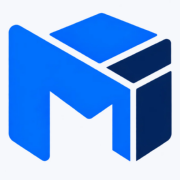
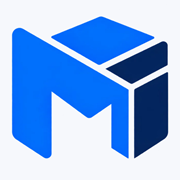
Record deployed working-tree state before redesign
Captures the uncommitted changes that were live in production deployment
7872373c (favicon v6 crop, blue wordmark accent, custom pointer) so the
redesign branch starts from exactly what visitors see today.

Generated with [Devin](https://devin.ai)

Changed region(s): [[0.1944, 0.0556, 0.9722, 0.9167], [0.0278, 0.1111, 0.3889, 0.9167], [0.3889, 0.5833, 0.5278, 0.6667]]

diff --git a/website-static/site.js b/website-static/site.js
@@ -1,5 +1,81 @@
 document.documentElement.classList.add("has-js");
 
+const customCursorQuery = window.matchMedia(
+  "(hover: hover) and (pointer: fine)",
+);
+const customCursor = document.createElement("div");
+customCursor.className = "custom-cursor";
+customCursor.setAttribute("aria-hidden", "true");
+customCursor.innerHTML = `
+  <svg viewBox="0 0 28 32" aria-hidden="true" focusable="false">
+    <path
+      d="M2.5 2.5 24.2 14.8l-8.3 2.1 5 8.8-4.5 2.5-4.9-8.9-6.1 6.3Z"
+      fill="#07142f"
+      stroke="#ffffff"
+      stroke-linejoin="round"
+      stroke-width="2.2"
+    />
+  </svg>
+`;
+document.body.append(customCursor);
+
+let cursorFrame = 0;
+let cursorX = -48;
+let cursorY = -48;
+
+const hideCustomCursor = () => {
+  if (cursorFrame) {
+    window.cancelAnimationFrame(cursorFrame);
+    cursorFrame = 0;
+  }
+  document.documentElement.classList.remove("has-custom-cursor");
+  customCursor.classList.remove("is-visible", "is-active");
+};
+
+const updateCustomCursor = () => {
+  customCursor.style.transform = `translate3d(${cursorX - 2}px, ${cursorY - 2}px, 0)`;
+  customCursor.classList.add("is-visible");
+  document.documentElement.classList.add("has-custom-cursor");
+  cursorFrame = 0;
+};
+
+window.addEventListener(
+  "pointermove",
+  (event) => {
+    if (
+      !customCursorQuery.matches ||
+      event.pointerType === "touch" ||
+      event.target.closest?.("[data-native-cursor]")
+    ) {
+      hideCustomCursor();
+      return;
+    }
+
+    cursorX = event.clientX;
+    cursorY = event.clientY;
+    if (!cursorFrame) {
+      cursorFrame = window.requestAnimationFrame(updateCustomCursor);
+    }
+  },
+  { passive: true },
+);
+
+window.addEventListener("pointerdown", () => {
+  if (document.documentElement.classList.contains("has-custom-cursor")) {
+    customCursor.classList.add("is-active");
+  }
+});
+window.addEventListener("pointerup", () =>
+  customCursor.classList.remove("is-active"),
+);
+window.addEventListener("pointercancel", hideCustomCursor);
+window.addEventListener("blur", hideCustomCursor);
+window.addEventListener("mouseout", (event) => {
+  if (!event.relatedTarget) hideCustomCursor();
+});
+window.addEventListener("mergeship:cursor-suspend", hideCustomCursor);
+customCursorQuery.addEventListener("change", hideCustomCursor);
+
 const header = document.querySelector("[data-header]");
 const updateHeader = () =>
   header?.classList.toggle("is-scrolled", window.scrollY > 10);
@@ -43,6 +119,9 @@ document
     button.addEventListener("click", () => {
       const facade = button.closest("[data-video-facade]");
       if (!facade) return;
+
+      facade.setAttribute("data-native-cursor", "");
+      window.dispatchEvent(new Event("mergeship:cursor-suspend"));
 
       if (button.dataset.videoSrc) {
         const video = document.createElement("video");

diff --git a/website-static/guides/index.html b/website-static/guides/index.html
@@ -12,9 +12,9 @@
     <meta property="og:description" content="Practical guidance on combining Shopify orders, checking fulfillment and payment risks, and comparing manual and automatic methods." />
     <meta property="og:type" content="website" />
     <meta property="og:url" content="https://mergeship.app/guides" />
-    <link rel="icon" href="/favicon.ico?v=5" sizes="16x16 32x32 48x48" />
-    <link rel="icon" href="/brand/app-icon-32.png?v=5" type="image/png" sizes="32x32" />
-    <link rel="apple-touch-icon" href="/brand/app-icon-180.png?v=5" />
+    <link rel="icon" href="/favicon.ico?v=6" sizes="16x16 32x32 48x48" />
+    <link rel="icon" href="/brand/app-icon-32.png?v=6" type="image/png" sizes="32x32" />
+    <link rel="apple-touch-icon" href="/brand/app-icon-180.png?v=6" />
     <link rel="preconnect" href="https://cdn.shopify.com" />
     <link rel="stylesheet" href="https://cdn.shopify.com/static/fonts/inter/v4/styles.css" />
     <link rel="stylesheet" href="/site.css?v=guides-20261014" />
@@ -25,7 +25,7 @@
       <div class="shell header-row editorial-header-row">
         <a class="brand" href="/" aria-label="MergeShip home">
           <img src="/brand/logo-64.png" alt="" width="64" height="64" />
-          <span>MergeShip</span>
+          <span>Merge<span class="brand-accent">Ship</span></span>
         </a>
         <nav class="primary-nav" aria-label="Primary navigation">
           <a href="/#how-it-works">How it works</a>
@@ -67,6 +67,6 @@
         </nav>
       </div>
     </footer>
-    <script src="/site.js" defer></script>
+    <script src="/site.js?v=20261017-cursor" defer></script>
   </body>
 </html>

diff --git a/website-static/guides/how-to-combine-shopify-orders/index.html b/website-static/guides/how-to-combine-shopify-orders/index.html
@@ -14,9 +14,9 @@
     <meta property="og:url" content="https://mergeship.app/guides/how-to-combine-shopify-orders" />
     <meta property="og:image" content="https://mergeship.app/assets/media/combined-order-1440.jpg" />
     <meta name="twitter:card" content="summary_large_image" />
-    <link rel="icon" href="/favicon.ico?v=5" sizes="16x16 32x32 48x48" />
-    <link rel="icon" href="/brand/app-icon-32.png?v=5" type="image/png" sizes="32x32" />
-    <link rel="apple-touch-icon" href="/brand/app-icon-180.png?v=5" />
+    <link rel="icon" href="/favicon.ico?v=6" sizes="16x16 32x32 48x48" />
+    <link rel="icon" href="/brand/app-icon-32.png?v=6" type="image/png" sizes="32x32" />
+    <link rel="apple-touch-icon" href="/brand/app-icon-180.png?v=6" />
     <link rel="preconnect" href="https://cdn.shopify.com" />
     <link rel="stylesheet" href="https://cdn.shopify.com/static/fonts/inter/v4/styles.css" />
     <link rel="stylesheet" href="/site.css?v=guides-20261014" />
@@ -42,7 +42,7 @@
       <div class="shell header-row editorial-header-row">
         <a class="brand" href="/" aria-label="MergeShip home">
           <img src="/brand/logo-64.png" alt="" width="64" height="64" />
-          <span>MergeShip</span>
+          <span>Merge<span class="brand-accent">Ship</span></span>
         </a>
         <nav class="primary-nav" aria-label="Primary navigation">
           <a href="/#how-it-works">How it works</a>
@@ -157,6 +157,6 @@
         </nav>
       </div>
     </footer>
-    <script src="/site.js" defer></script>
+    <script src="/site.js?v=20261017-cursor" defer></script>
   </body>
 </html>

diff --git a/website-static/demo/index.html b/website-static/demo/index.html
@@ -30,9 +30,9 @@
       content="MergeShip full walkthrough preview"
     />
     <meta name="twitter:card" content="summary_large_image" />
-    <link rel="icon" href="/favicon.ico?v=5" sizes="16x16 32x32 48x48" />
-    <link rel="icon" href="/brand/app-icon-32.png?v=5" type="image/png" sizes="32x32" />
-    <link rel="apple-touch-icon" href="/brand/app-icon-180.png?v=5" />
+    <link rel="icon" href="/favicon.ico?v=6" sizes="16x16 32x32 48x48" />
+    <link rel="icon" href="/brand/app-icon-32.png?v=6" type="image/png" sizes="32x32" />
+    <link rel="apple-touch-icon" href="/brand/app-icon-180.png?v=6" />
     <link rel="preconnect" href="https://cdn.shopify.com" />
     <link
       rel="stylesheet"
@@ -47,7 +47,7 @@
       <div class="shell header-row">
         <a class="brand" href="/" aria-label="MergeShip home">
           <img src="/brand/logo-64.png" alt="" width="64" height="64" />
-          <span>MergeShip</span>
+          <span>Merge<span class="brand-accent">Ship</span></span>
         </a>
         <nav class="primary-nav" aria-label="Primary navigation">
           <a href="/#how-it-works">How it works</a>
@@ -149,6 +149,6 @@
       </div>
     </footer>
 
-    <script src="/site.js" defer></script>
+    <script src="/site.js?v=20261017-cursor" defer></script>
   </body>
 </html>

diff --git a/website-static/index.html b/website-static/index.html
@@ -45,9 +45,9 @@
       name="twitter:image"
       content="https://mergeship.app/assets/media/combined-order-1440.jpg"
     />
-    <link rel="icon" href="/favicon.ico?v=5" sizes="16x16 32x32 48x48" />
-    <link rel="icon" href="/brand/app-icon-32.png?v=5" type="image/png" sizes="32x32" />
-    <link rel="apple-touch-icon" href="/brand/app-icon-180.png?v=5" />
+    <link rel="icon" href="/favicon.ico?v=6" sizes="16x16 32x32 48x48" />
+    <link rel="icon" href="/brand/app-icon-32.png?v=6" type="image/png" sizes="32x32" />
+    <link rel="apple-touch-icon" href="/brand/app-icon-180.png?v=6" />
     <link rel="preconnect" href="https://cdn.shopify.com" />
     <link
       rel="stylesheet"
@@ -119,7 +119,7 @@
       <div class="shell header-row">
         <a class="brand" href="/" aria-label="MergeShip home">
           <img src="/brand/logo-64.png" alt="" width="64" height="64" />
-          <span>MergeShip</span>
+          <span>Merge<span class="brand-accent">Ship</span></span>
         </a>
 
         <nav class="primary-nav" aria-label="Primary navigation">
@@ -559,6 +559,6 @@
       </div>
     </footer>
 
-    <script src="/site.js" defer></script>
+    <script src="/site.js?v=20261017-cursor" defer></script>
   </body>
 </html>

diff --git a/website-static/site.css b/website-static/site.css
@@ -173,6 +173,57 @@ section[id] {
   height: 36px;
 }
 
+.site-header .brand-accent {
+  color: var(--blue);
+}
+
+/* Custom pointer */
+
+.custom-cursor {
+  display: none;
+}
+
+@media (hover: hover) and (pointer: fine) {
+  html.has-custom-cursor,
+  html.has-custom-cursor * {
+    cursor: none !important;
+  }
+
+  .custom-cursor {
+    position: fixed;
+    z-index: 2147483647;
+    top: 0;
+    left: 0;
+    display: block;
+    width: 19px;
+    height: 22px;
+    opacity: 0;
+    pointer-events: none;
+    transform: translate3d(-48px, -48px, 0);
+    transition: opacity 80ms ease;
+    will-change: transform;
+  }
+
+  .custom-cursor.is-visible {
+    opacity: 1;
+  }
+
+  .custom-cursor svg {
+    width: 100%;
+    height: 100%;
+    overflow: visible;
+    filter:
+      drop-shadow(0 0 3px rgb(8 107 255 / 68%))
+      drop-shadow(0 1px 1px rgb(11 23 54 / 24%));
+    transition: transform 100ms ease;
+    transform-origin: 4px 4px;
+  }
+
+  .custom-cursor.is-active svg {
+    transform: scale(0.88);
+  }
+}
+
 .primary-nav,
 .footer-nav {
   display: flex;

diff --git a/website-static/404.html b/website-static/404.html
@@ -10,8 +10,8 @@
     />
     <meta name="robots" content="noindex,follow" />
     <meta name="theme-color" content="#f5f7fb" />
-    <link rel="icon" href="/favicon.ico?v=5" sizes="16x16 32x32 48x48" />
-    <link rel="icon" href="/brand/app-icon-32.png?v=5" type="image/png" sizes="32x32" />
+    <link rel="icon" href="/favicon.ico?v=6" sizes="16x16 32x32 48x48" />
+    <link rel="icon" href="/brand/app-icon-32.png?v=6" type="image/png" sizes="32x32" />
     <link rel="preconnect" href="https://cdn.shopify.com" />
     <link
       rel="stylesheet"
@@ -24,7 +24,7 @@
       <div class="shell header-row">
         <a class="brand" href="/" aria-label="MergeShip home">
           <img src="/brand/logo-64.png" alt="" width="64" height="64" />
-          <span>MergeShip</span>
+          <span>Merge<span class="brand-accent">Ship</span></span>
         </a>
       </div>
     </header>

diff --git a/website-static/privacy/index.html b/website-static/privacy/index.html
@@ -12,9 +12,9 @@
     <meta property="og:description" content="Privacy Policy for MergeShip" />
     <meta property="og:type" content="website" />
     <meta property="og:url" content="https://mergeship.app/privacy" />
-    <link rel="icon" href="/favicon.ico?v=5" sizes="16x16 32x32 48x48" />
-    <link rel="icon" href="/brand/app-icon-32.png?v=5" type="image/png" sizes="32x32" />
-    <link rel="apple-touch-icon" href="/brand/app-icon-180.png?v=5" />
+    <link rel="icon" href="/favicon.ico?v=6" sizes="16x16 32x32 48x48" />
+    <link rel="icon" href="/brand/app-icon-32.png?v=6" type="image/png" sizes="32x32" />
+    <link rel="apple-touch-icon" href="/brand/app-icon-180.png?v=6" />
     <style>
       * {
         box-sizing: border-box;
